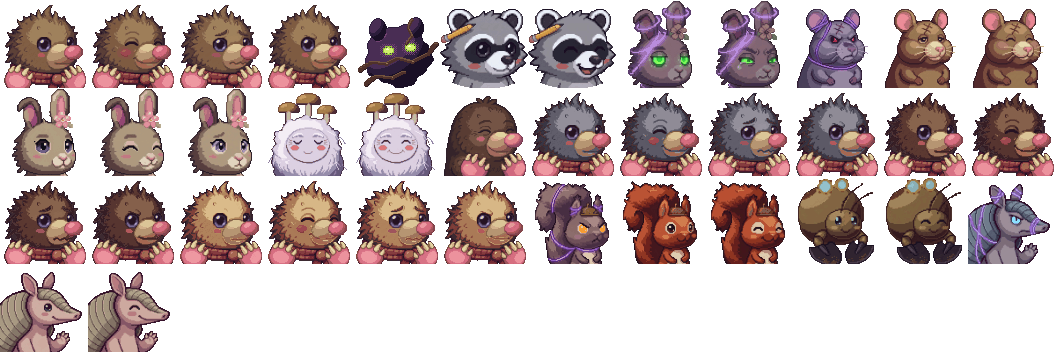
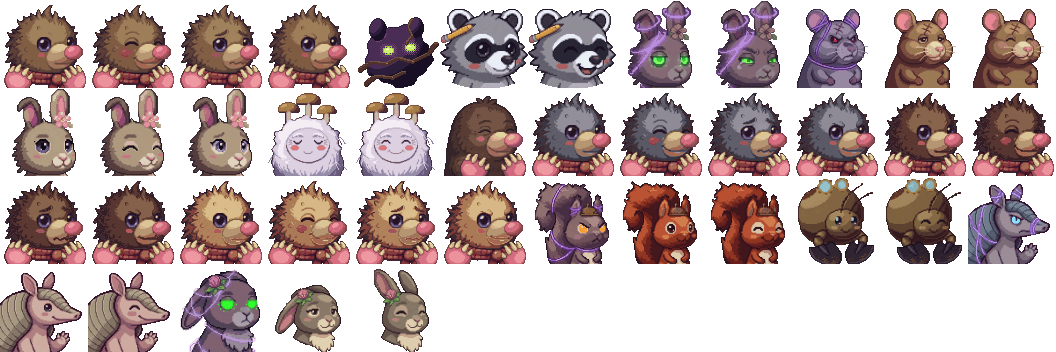
토끼풀 초상화 3칸(0165): 사장의 나노바나나 원본을 칸 38~40에 끼운다
- 원본: tools/art/sources/ai/clover_{normal,happy,tainted_glare}.png + sheets/clover.png(✦ 로고는 strip_logo.py로 지움)
- ai_portraits.py: 'clover'(칸 39~40, 틀 높이 96%), 'clover_tainted'(칸 38, 960줄에서 잘라 같은 틀, CHEST_AT_BOTTOM), 초록 빛 눈은 _glow_eyes
- cutscene.rs: Portrait::CLOVER_TAINTED·CLOVER, 물든 토끼풀·돌아온 토끼풀 배우에 초상화. 틀 시험에 세 줄
- 문서: portraits.py 칸 표, nano-banana-prompts.md 칸 번호·시트, 0165 그림 절, phase 문서

Claude-Session: https://claude.ai/code/session_01VNXEyeHwdhsn4oiHYXtNpM

Changed region(s): [[0.1562, 0.75, 0.4062, 1.0]]

diff --git a/tools/art/ai_portraits.py b/tools/art/ai_portraits.py
@@ -49,12 +49,16 @@ CHARACTERS = {
     'kongi': (36, ('normal', 'happy'), None, 16),
     # 물든 콩이: 콩이 보통 표정을 고쳐 그려 틀이 같다. 눈은 옅은 하늘빛 빛(0054).
     'kongi_tainted': (35, ('glare',), None, 16),
+    # 토끼풀(0165): 원본은 머리가 188~960줄(높이 75%)이라 틀을 높이 96%로 맞춘다. 꽃·잎은 vivid 칸으로.
+    'clover': (39, ('normal', 'happy'), 0.96, 16),
+    # 물든 토끼풀: 머리 틀은 보통과 같고 가슴이 1020줄까지 내려와 960줄에서 잘라(CUT_AT) 보통과 같은 틀로. 초록 빛 눈(FIXES).
+    'clover_tainted': (38, ('glare',), 0.96, 16),
 }
 # 크림색 가슴이 원본 아래 끝에 닿는 캐릭터: 배경 지우기를 아래 끝에서 시작하지 않는다(_character_mask).
-CHEST_AT_BOTTOM = {'momo', 'momo_tainted', 'halmae', 'doto', 'doto_tainted'}
+CHEST_AT_BOTTOM = {'momo', 'momo_tainted', 'halmae', 'doto', 'doto_tainted', 'clover_tainted'}
 # 몸이 원본 아래 끝보다 위에서 잘린 캐릭터: 그 줄(원본 1024px)까지만 쓴다. 도토는 942줄에서 몸이 끝나고 아래가 배경 띠라,
 # 크림색 배(배경과 거리 30, 허용 34 안)가 그 띠를 타고 지워져 칸에 구멍이 났다. 잘라서 몸이 아래 끝에 닿게 하고 CHEST_AT_BOTTOM.
-CUT_AT = {'doto': 942, 'doto_tainted': 942}
+CUT_AT = {'doto': 942, 'doto_tainted': 942, 'clover_tainted': 960}
 # 몸에 둘러싸인 배경 틈을 지울 캐릭터(_clear_holes): 할매 갓·대 사이, 수수 다리 사이.
 HOLES = {'halmae', 'susu'}
 # 틀 맞출 때 가슴 아래를 칸 밖으로 보내는 몫(잘린 가슴 = Naïl의 칸 밖으로 나간 앞발과 같은 틀).
@@ -133,6 +137,9 @@ FIXES['doto_tainted_glare'] = lambda img: _glow_eyes(img, DOTO_TAINTED_EYES, (0.
 # 물든 콩이 눈 상자(원본 1024px). 흰빛 하늘색(색상 0.45~0.62, 채도 0.12 넘음)을 옅지만 분명한 하늘빛으로(0054).
 KONGI_TAINTED_EYES = [(490, 460, 630, 570)]
 FIXES['kongi_tainted_glare'] = lambda img: _glow_eyes(img, KONGI_TAINTED_EYES, (0.45, 0.62), 0.54, 0.12, 0.45)
+# 물든 토끼풀 눈 상자(원본 1024px): 왼눈·오른눈. 머리 위 토끼풀 잎(300~410줄)은 상자 밖. 초록(색상 0.2~0.45)을 밝은 풀빛으로(0165).
+CLOVER_TAINTED_EYES = [(455, 430, 625, 580), (695, 430, 830, 580)]
+FIXES['clover_tainted_glare'] = lambda img: _glow_eyes(img, CLOVER_TAINTED_EYES, (0.2, 0.45), 0.33)
 for _face in ('normal', 'happy', 'worried', 'tainted_normal', 'tainted_pained'):
     FIXES[f'momo_{_face}'] = lambda img: _plum_lines(img, MOMO_EYES)
 

diff --git a/src/cutscene.rs b/src/cutscene.rs
@@ -101,6 +101,15 @@ impl Portrait {
         first: 36,
         faces: 2,
     };
+    /// 물든 토끼풀: 칸 38 하나. 돌아온 토끼풀: 칸 39~40(보통·기쁨, docs/decisions/0165).
+    pub const CLOVER_TAINTED: Portrait = Portrait {
+        first: 38,
+        faces: 1,
+    };
+    pub const CLOVER: Portrait = Portrait {
+        first: 39,
+        faces: 2,
+    };
 
     pub fn frame(self, face: Face) -> u32 {
         // 모모는 칸이 둘(차가움·괴로움)뿐이라 걱정 = 둘째 칸.
@@ -353,6 +362,9 @@ mod portrait_tests {
         assert_eq!(Portrait::BORI.frame(Face::Happy), 11);
         assert_eq!(Portrait::MOMO.frame(Face::Worried), 14);
         assert_eq!(Portrait::HALMAE.frame(Face::Worried), 15);
+        assert_eq!(Portrait::CLOVER_TAINTED.frame(Face::Worried), 38);
+        assert_eq!(Portrait::CLOVER.frame(Face::Happy), 40);
+        assert_eq!(Portrait::CLOVER.frame(Face::Worried), 39);
         assert_eq!(Portrait::MOM.frame(Face::Happy), 17);
     }
 }
@@ -913,6 +925,7 @@ fn speaker_actor(w: &World, who: Speaker) -> Actor {
         Speaker::Kongi => kongi_actor(w.player.pos),
         Speaker::CloverTainted => Actor {
             sprite: Some(Sprite::Critter(crate::art::CLOVER_ROW)),
+            portrait: Some(Portrait::CLOVER_TAINTED),
             pos: w.player.pos,
             ..story_actor("???", CLOVER_FUR)
         },
@@ -920,13 +933,14 @@ fn speaker_actor(w: &World, who: Speaker) -> Actor {
     }
 }
 
-/// 토끼풀의 색(초상화가 올 때까지 이름표 옆 네모, 0165).
+/// 토끼풀의 색(이름표·말풍선 테두리, 0165).
 const CLOVER_FUR: Color = Color::new(0.62, 0.52, 0.48, 1.0);
 
-/// 돌아온 토끼풀 배우(월드 그림 = 맑은 눈). 초상화는 사장의 나노바나나 원본이 오면 끼운다.
+/// 돌아온 토끼풀 배우(월드 그림 = 맑은 눈, 초상화 칸 39~40).
 fn clover_actor(pos: Vec2) -> Actor {
     Actor {
         sprite: Some(Sprite::Critter(crate::art::CLOVER_BACK_ROW)),
+        portrait: Some(Portrait::CLOVER),
         pos,
         ..story_actor(i18n::s().name_clover, CLOVER_FUR)
     }

diff --git a/tools/art/portraits.py b/tools/art/portraits.py
@@ -18,6 +18,8 @@
   칸 33~34: 땅강아지 수수 보통·기쁨 — 벨벳 투구 같은 가슴, 이마에 올린 보안경, 큰 삽발(docs/decisions/0053)
   칸 35  : 콩이(물든 세띠아르마딜로, 셋째 길 보스) — 띠 무늬 등딱지, 머리 방패, 옅은 하늘빛 눈, 뿌리(docs/decisions/0054)
   칸 36~37: 돌아온 콩이 보통·기쁨
+  칸 38  : 토끼풀(물든 어미 굴토끼, 굴토끼 가족의 길 보스) — 처진 귀, 분홍 토끼풀꽃, 초록 빛 눈, 보라 실(docs/decisions/0165)
+  칸 39~40: 돌아온 토끼풀 보통·기쁨
 
 그리는 법(손 도트를 흉내 낸 절차):
   1. 부위를 타원으로 놓고 칸마다 재질을 정한다(뒤에 놓인 것부터).

diff --git a/docs/phase-1-combat-prototype.md b/docs/phase-1-combat-prototype.md
@@ -153,7 +153,7 @@
 - [ ] **Android 아날로그 스틱**(0143): 왼쪽 스틱을 살짝 기울이면 천천히 걷는지, 오른쪽 스틱으로 조준(필살기 포함)되는지, D패드가 그대로 듣는지, 메뉴에서 스틱 한 번 = 한 칸인지(두 칸 가지 않는지)
 
 ### v0.4.0 마일스톤(0145) — "깊은 곳"
-- [x] A. 굴토끼 가족의 길(0165): 셋째 길 갈래 '굴토끼 옛 굴'(모모 귀환 뒤), 흰 실 지대 + 실 그물, 어미 토끼풀(발 구르기·두 번 차기·내려앉기·품기, 고치는 못 때림), 가족 귀환(마을·저널 "가족"·흰 실 매듭·에필로그). 그림 원본(초상 3칸·일러스트 1장)은 사장
+- [x] A. 굴토끼 가족의 길(0165): 셋째 길 갈래 '굴토끼 옛 굴'(모모 귀환 뒤), 흰 실 지대 + 실 그물, 어미 토끼풀(발 구르기·두 번 차기·내려앉기·품기, 고치는 못 때림), 가족 귀환(마을·저널 "가족"·흰 실 매듭·에필로그). 초상 3칸은 들어갔고(칸 38~40) 일러스트 `clover_cocoon` 1장은 사장
 - [x] B. 가장 깊은 곳의 마지막 싸움(0162): 할매는 싸우지 않고 실을 당긴다, 매듭 셋을 끊으면 놓아준다. 세 번 감기면 쉼터 모닥불에서 깸. 손맛·길이·할매 그림은 사장(개발 → "가장 깊은 곳")
 - [x] C. 새 잡몹 다섯(0146): 땃쥐(두 번 물기)·고슴도치(가시 공, 발톱 튕김)·두꺼비(혀로 끌기)·박쥐(공중, 솟구치기 안 닿음)·포자버섯(구름). 지대마다 다른 뽑기 표. 손맛·난이도·심층에서 잘 보이는지는 사장(개발 → "새 졸개 다섯")
 - [x] D. 스테이지 다양화(0147): 뿌리 지대 가시뿌리 덤불(걸으면 찔림, 돌진하던 적은 박혀 멈칫), 심층 무너지는 천장(예고 뒤 돌), 길 지도 "실타래" 칸(엘리트 + 졸개 둘, 이기면 장신구). 세기·빈도는 사장(개발 → "실타래 굴: 뿌리/심층")
@@ -179,7 +179,7 @@
 - [ ] **v0.3.0에서 넘어온 판정**(0148·0149): ~~7 귀~~ 좋음, ~~10 오른쪽 스틱 조준~~ 됨(2026-10-27). 남은 것: 10의 이동 세기·메뉴 한 칸씩, 11 드릴 겨누기가 엉뚱한 적에 끌리지 않는지
 - [ ] **0152·0153 보기**: 타이틀 메뉴 뒤 둥근 그늘·고른 줄(▶ + 밝은 글), 오프닝 내레이션(아래에서 옅어지는 어둠), 안내 글의 키캡(Enter·Esc·패드 버튼이 테두리 칸으로), 타이틀 안내 두 항목
 - [ ] **0157 단추감**: 시작·이어하기 창의 단추가 눌리는 느낌이 나는지, 0.12초가 늦게 느껴지지 않는지(키·패드·터치)
-- [ ] **0165 굴토끼 가족의 길**: 흰 실 지대가 심층과 다르게 읽히는지, 실 그물이 귀찮기만 하지 않은지, 토끼풀 수 넷의 손맛(충격파·두 번 차기·품기), 고치를 때리면 안 되는 게 읽히는지, 귀환 장면·마을의 가족, 모모 런의 "엄마, 나야!", 흰 실 매듭, 콩이의 문/옛 굴을 매 런 고르는 맛. 그림 원본(토끼풀 초상 3칸·일러스트 1장)은 사장(`docs/art/nano-banana-prompts.md`)
+- [ ] **0165 굴토끼 가족의 길**: 흰 실 지대가 심층과 다르게 읽히는지, 실 그물이 귀찮기만 하지 않은지, 토끼풀 수 넷의 손맛(충격파·두 번 차기·품기), 고치를 때리면 안 되는 게 읽히는지, 귀환 장면·마을의 가족, 모모 런의 "엄마, 나야!", 흰 실 매듭, 콩이의 문/옛 굴을 매 런 고르는 맛. 초상 3칸(칸 38~40)이 대화창에 맞는지. 일러스트 1장은 사장(`docs/art/nano-banana-prompts.md`)
 - [ ] **0164 오프닝의 모모**: 덮침이 "공격당했다"로 읽히는지, 착각(엄마)·이상한 한마디가 궁금증을 만드는지, 포포의 한마디, 꽃잎을 밟게 되는지, 도감 '???' 칸
 - [ ] **0163 얇은 장면**: 대장(대낮 공터)·도토·콩이 등장 연출이 어울리는지, 놓아주기 3.4초와 눈 뜬 할매, 잠드는 장면 뒤 되살아나기 토스트가 거슬리지 않는지. 남은 얇은 곳(쉼터 모닥불·발톱 받기·저장 고리·큰 나무·저널·꿈·마을 나무 성장)은 다음에
 - [ ] **0162 가장 깊은 곳**: 당기기 3.2초·예고 0.9초가 읽히는지, 감기면 매듭이 다시 조여지는 벌이 무겁거나 가벼운지, 세 번에 잠드는 게 알맞은지, 할매 코드 그림(나노바나나 원본은 사장이 그린 뒤 바꿔 끼움), 끝났을 때 "놓아준다"로 읽히는지, 모모 런에서도 같은 싸움이 맞는지

diff --git a/docs/art/nano-banana-prompts.md b/docs/art/nano-banana-prompts.md
@@ -60,8 +60,8 @@ Edit the last attached image, the portrait of [이름]. Add only [고칠 것], c
 | 콩이 | 36~37 | `calm` · `happy, eyes closed in a smile` |
 | 도토·콩이·들쥐 대장(물듦) | 30·35·9 | `glaring, small glowing eyes` — 도토는 amber, 콩이는 pale sky blue, 대장은 red(0052·0054) |
 | 엄마 | 17 | `gentle, eyes closed` |
-| 토끼풀(돌아옴, 0165) | (새 칸 둘) | `calm, tired but warm, eyes half open` · `happy, eyes closed in a soft smile` — 돌아온 토끼풀은 보통·웃음 둘 |
-| 토끼풀(물듦, 0165) | (새 칸 하나) | `distant, glowing green eyes like Momo's, ears laid flat back` |
+| 토끼풀(돌아옴, 0165) | 39~40 | `calm, tired but warm, eyes half open` · `happy, eyes closed in a soft smile` — 돌아온 토끼풀은 보통·웃음 둘 |
+| 토끼풀(물듦, 0165) | 38 | `distant, glowing green eyes like Momo's, ears laid flat back` |
 
 참고 그림(팩 그림 없음, 0064):
 - **캐릭터는 확정한 시트**(`sheet_<이름>.png`)와 시트가 없는 모습의 초상화(`ref_mom`·`ref_momo_tainted`·`ref_bori_tainted`·`ref_doto_tainted`·`ref_kongi_tainted`)를 쓴다(0124). `python3 tools/art/ref_pack.py <폴더>`가 `tools/art/sources/ai/sheets/`와 초상화 원본에서 만든다: 시트의 글자 띠를 잘라 낸다(첨부에 글자가 있으면 장면에도 글자가 들어가기 쉽다). ✦ 로고는 원본에서 이미 지웠다(0133). `overview.png`는 확인용 한 장.
@@ -100,8 +100,8 @@ World rules: The violet threads belong to Halmae, an ancient and lonely fungus g
 | 수수 | `sheet_susu.png` | `Susu: a cute mole-cricket craftsman, a small digging insect drawn as a round, friendly animal: a big rounded, velvety brown thorax like a soft helmet, a small round head with two long thin antennae and big gentle eyes, a pair of large dark shovel-like front legs for digging, a short segmented abdomen, and brass goggles with round sky-blue lenses pushed up on his forehead. Match the attached character sheet of Susu.` |
 | 콩이 | `sheet_kongi.png` | `Kongi: a small, chubby, cute armadillo with a soft pink face, belly and limbs, a domed banded grey shell on his back and a grey head plate, a long rounded pink snout, two tall pink ears, small gentle dark eyes and rosy cheeks. Match the attached character sheet of Kongi.` (확정한 시트가 귀가 길고 분홍이라 시트에 맞췄다. 예전 글 "짧고 뾰족한 귀"는 시트 전 것) |
 | 포포 | `sheet_popo.png` | `Popo: a raccoon with grey fur, a black eye mask, a white muzzle and round ears, with a small trinket tucked behind one ear. Match the attached character sheet of Popo.` |
-| 토끼풀(0165) | (시트 없음: 모모 시트를 첨부하고 "larger, older" 글로) | `Clover: Momo's mother, a grown European wild rabbit: the same kind of rabbit as the attached Momo sheet but larger and heavier, with slightly darker grey-brown fur, long ears that she lays flat back along her head, a cream chest, soft tired eyes and a pink clover flower at the base of one ear. Gentle and protective.` |
-| 토끼풀(물듦) | 위와 같음 | `Clover while bound: the same mother rabbit with dusky plum-grey fur and glowing green eyes like Momo's, violet threads coiled around her body, ears laid flat back.` |
+| 토끼풀(0165) | `sheet_clover.png` | `Clover: Momo's mother, a grown European wild rabbit: the same kind of rabbit as the attached Momo sheet but larger and heavier, with slightly darker grey-brown fur, long ears that she lays flat back along her head, a cream chest, soft tired eyes and a pink clover flower at the base of one ear. Gentle and protective.` |
+| 토끼풀(물듦) | `sheet_clover.png` + `ref_clover_tainted` | `Clover while bound: the same mother rabbit with dusky plum-grey fur and glowing green eyes like Momo's, violet threads coiled around her body, ears laid flat back.` |
 | 박하·민들레(0165) | 모모 시트 첨부 | `Mint and Dandelion: two tiny rabbit kits, round and fluffy, the same kind of rabbit as the attached Momo sheet but much smaller and younger, warm grey-brown fur, big dark eyes, short ears. One is sleepy, the other curious.` |
 
 ## 4. 장면

diff --git a/docs/decisions/0165-rabbit-family-road.md b/docs/decisions/0165-rabbit-family-road.md
@@ -50,7 +50,7 @@
 - 도감: 토끼풀 칸(물든 어미 굴토끼, lore·attack·tip). 아기들은 도감에 없다(적이 아니다).
 
 ## 6. 그림
-- 사장(나노바나나, `docs/art/nano-banana-prompts.md` 0-2·3·4에 적었다): 토끼풀 초상 3칸(물든 / 맑은 보통 / 맑은 웃음), 일러스트 `clover_cocoon` 1장(실 속에서 아기들을 품은 어미). 올 때까지 대화창 초상화는 색 네모(0073), 일러스트는 없다(앨범에도 아직 없음).
+- 사장(나노바나나, `docs/art/nano-banana-prompts.md` 0-2·3·4에 적었다): 토끼풀 시트(`tools/art/sources/ai/sheets/clover.png`) + 초상 3칸 — 물든(칸 38, 초록 빛 눈은 `ai_portraits.py` FIXES로 또렷하게) / 맑은 보통·웃음(칸 39~40, 틀 높이 96%, 물든 쪽은 960줄에서 잘라 같은 틀) — 2026-10-27에 왔다. 처진 귀(lop)에 분홍 토끼풀꽃. 일러스트 `clover_cocoon` 1장(실 속에서 아기들을 품은 어미)은 아직(앨범에도 아직 없음).
 - 코드 그림(`tools/art/critters.py`): 토끼풀 2줄(물든/돌아온: 모모보다 크고 귀를 뒤로 눕힘, 줄 19·20), 아기 굴토끼 1줄(깨어난 모습, 줄 21). 고치·충격파·실 가닥·실 그물·보풀은 `render.rs` 코드 그림. 장식 타일은 새로 만들지 않았다(기존 야광버섯·조약돌·이끼).
 
 ## 7. 글(열한 언어, 41키)
